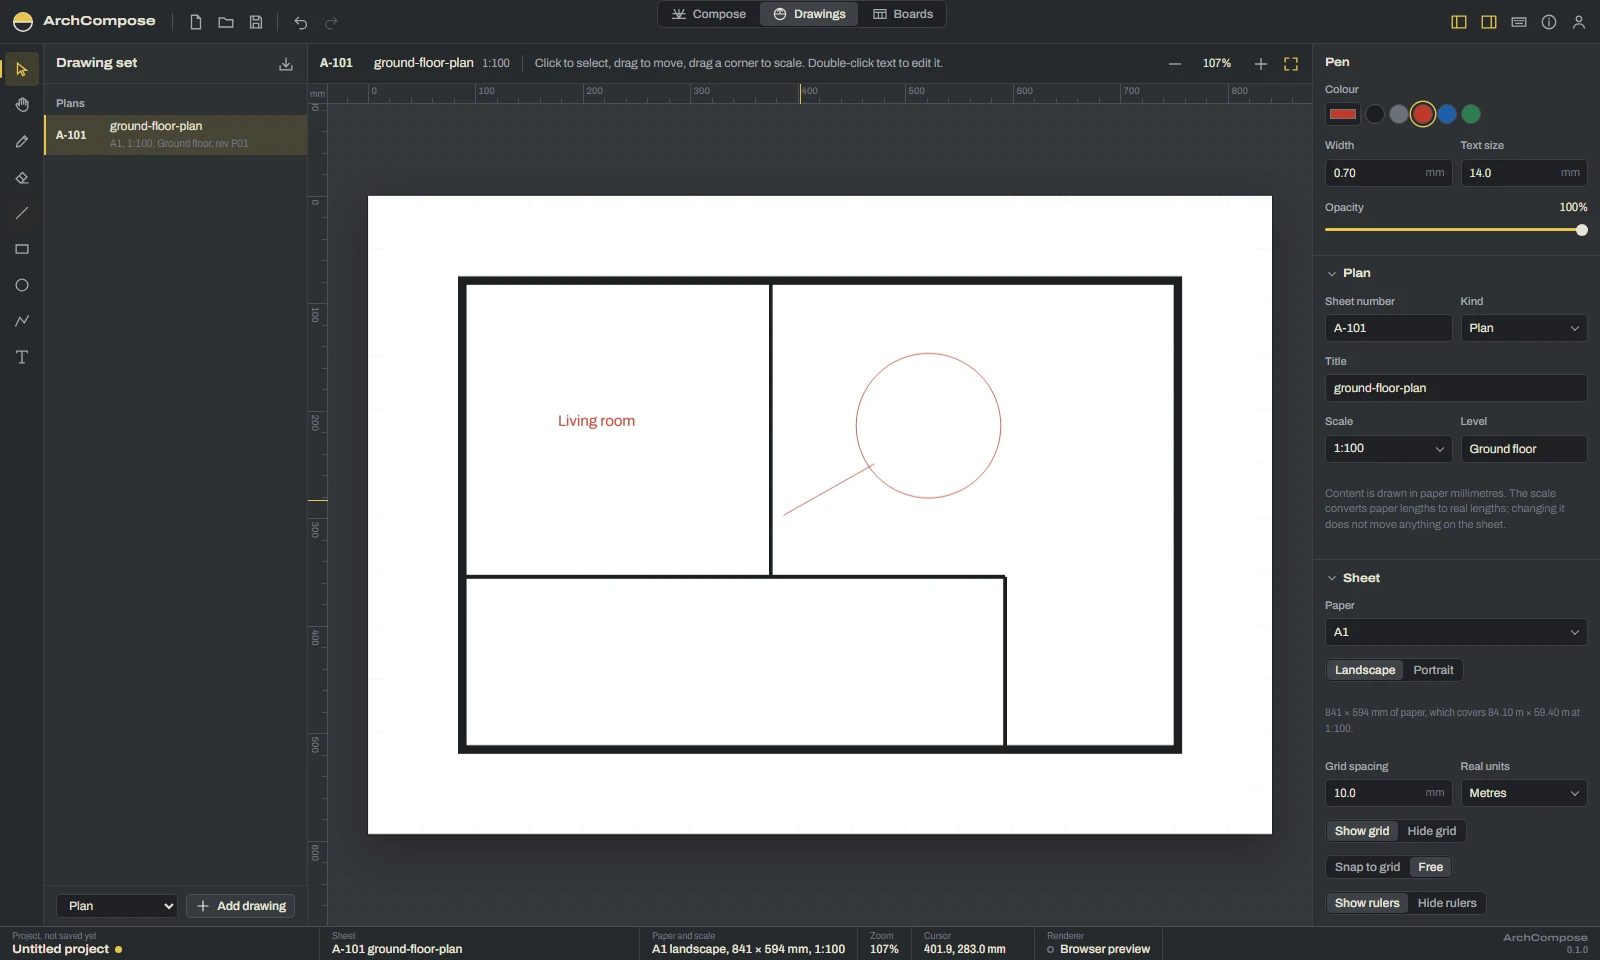
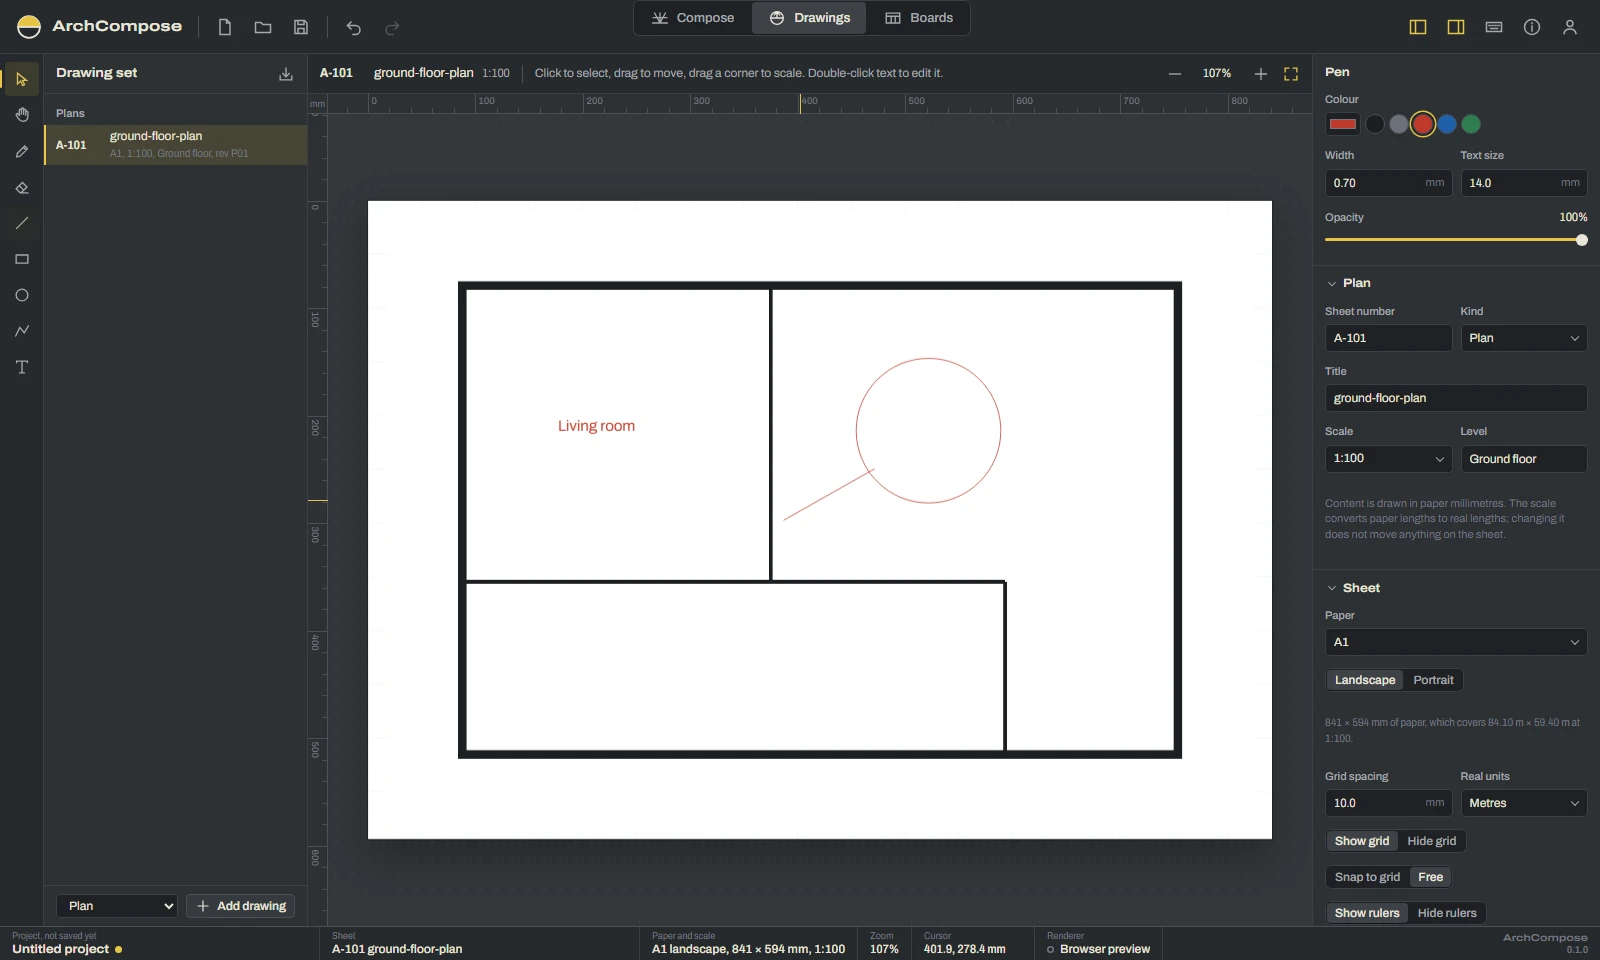
Make the top bar taller with larger controls (#7)
The top bar grows from 44 to 54 px. Its controls use a new --h-control-top (36 px), icons are 20 px, and the brand mark, wordmark, workspace switch and profile chip scale up to match. README screenshots regenerated.

diff --git a/src/app/App.module.css b/src/app/App.module.css
@@ -18,9 +18,15 @@
   grid-template-columns: minmax(0, 1fr) auto minmax(0, 1fr);
   align-items: center;
   gap: var(--s-4);
-  padding: 0 var(--s-2) 0 var(--s-3);
+  padding: 0 var(--s-3) 0 var(--s-4);
   background: var(--c-app);
   border-bottom: 1px solid var(--c-line);
+  /* The top bar is the app's main chrome, so its controls and icons are a size up. */
+  --h-control: var(--h-control-top);
+}
+.topbar button > svg {
+  width: 20px;
+  height: 20px;
 }
 
 .topLeft {
@@ -40,7 +46,7 @@
 .brand {
   display: flex;
   align-items: center;
-  gap: 9px;
+  gap: 10px;
   padding-right: var(--s-2);
 }
 
@@ -50,7 +56,7 @@
 }
 
 .wordmark {
-  font-size: var(--fs-md);
+  font-size: var(--fs-lg);
   font-weight: 660;
   font-stretch: var(--stretch-expanded);
   letter-spacing: 0.01em;
@@ -65,7 +71,7 @@
 
 .divider {
   width: 1px;
-  height: 18px;
+  height: 22px;
   background: var(--c-line-strong);
   flex: none;
 }
@@ -77,6 +83,15 @@
 
 .workspaceSwitch {
   justify-self: center;
+}
+.workspaceSwitch button {
+  gap: 8px;
+  padding: 0 var(--s-4);
+  font-size: var(--fs-md);
+}
+.workspaceSwitch button > svg {
+  width: 18px;
+  height: 18px;
 }
 
 /* ---------------------------------------------------------------- title block */

diff --git a/src/app/TopBar.tsx b/src/app/TopBar.tsx
@@ -15,7 +15,7 @@ const WORKSPACE_OPTIONS: readonly ChoiceOption<WorkspaceId>[] = [
 /** The section/elevation callout, drawn as the ArchCompose mark. */
 export function BrandMark() {
   return (
-    <svg width="22" height="22" viewBox="0 0 22 22" aria-hidden className={styles.mark}>
+    <svg width="26" height="26" viewBox="0 0 22 22" aria-hidden className={styles.mark}>
       <circle cx="11" cy="11" r="9.25" fill="none" stroke="currentColor" strokeWidth="1.5" />
       <path d="M1.75 11a9.25 9.25 0 0 1 18.5 0Z" fill="var(--c-accent)" />
       <path d="M1 11h20" stroke="currentColor" strokeWidth="1.5" />

diff --git a/src/app/ProfileMenu.tsx b/src/app/ProfileMenu.tsx
@@ -247,7 +247,7 @@ function ProfileChip({ name, onClick }: { name: string; onClick: () => void }) {
           aria-label={`Profile: ${name}`}
           onClick={onClick}
         >
-          <Avatar name={name} size={22} framed={false} />
+          <Avatar name={name} size={28} framed={false} />
           <span className={styles.chipName}>{name}</span>
         </button>
       </Tooltip>

diff --git a/src/styles/tokens.css b/src/styles/tokens.css
@@ -74,7 +74,8 @@
 
   --h-control: 28px;
   --h-control-sm: 24px;
-  --h-topbar: 44px;
+  --h-topbar: 54px;
+  --h-control-top: 36px;
   --h-titleblock: 34px;
   --w-rail: 44px;
   --w-left: 264px;

diff --git a/src/app/ProfileMenu.module.css b/src/app/ProfileMenu.module.css
@@ -76,7 +76,7 @@
   overflow: hidden;
   text-overflow: ellipsis;
   white-space: nowrap;
-  font-size: var(--fs-sm);
+  font-size: var(--fs-md);
   font-weight: 560;
 }
 
